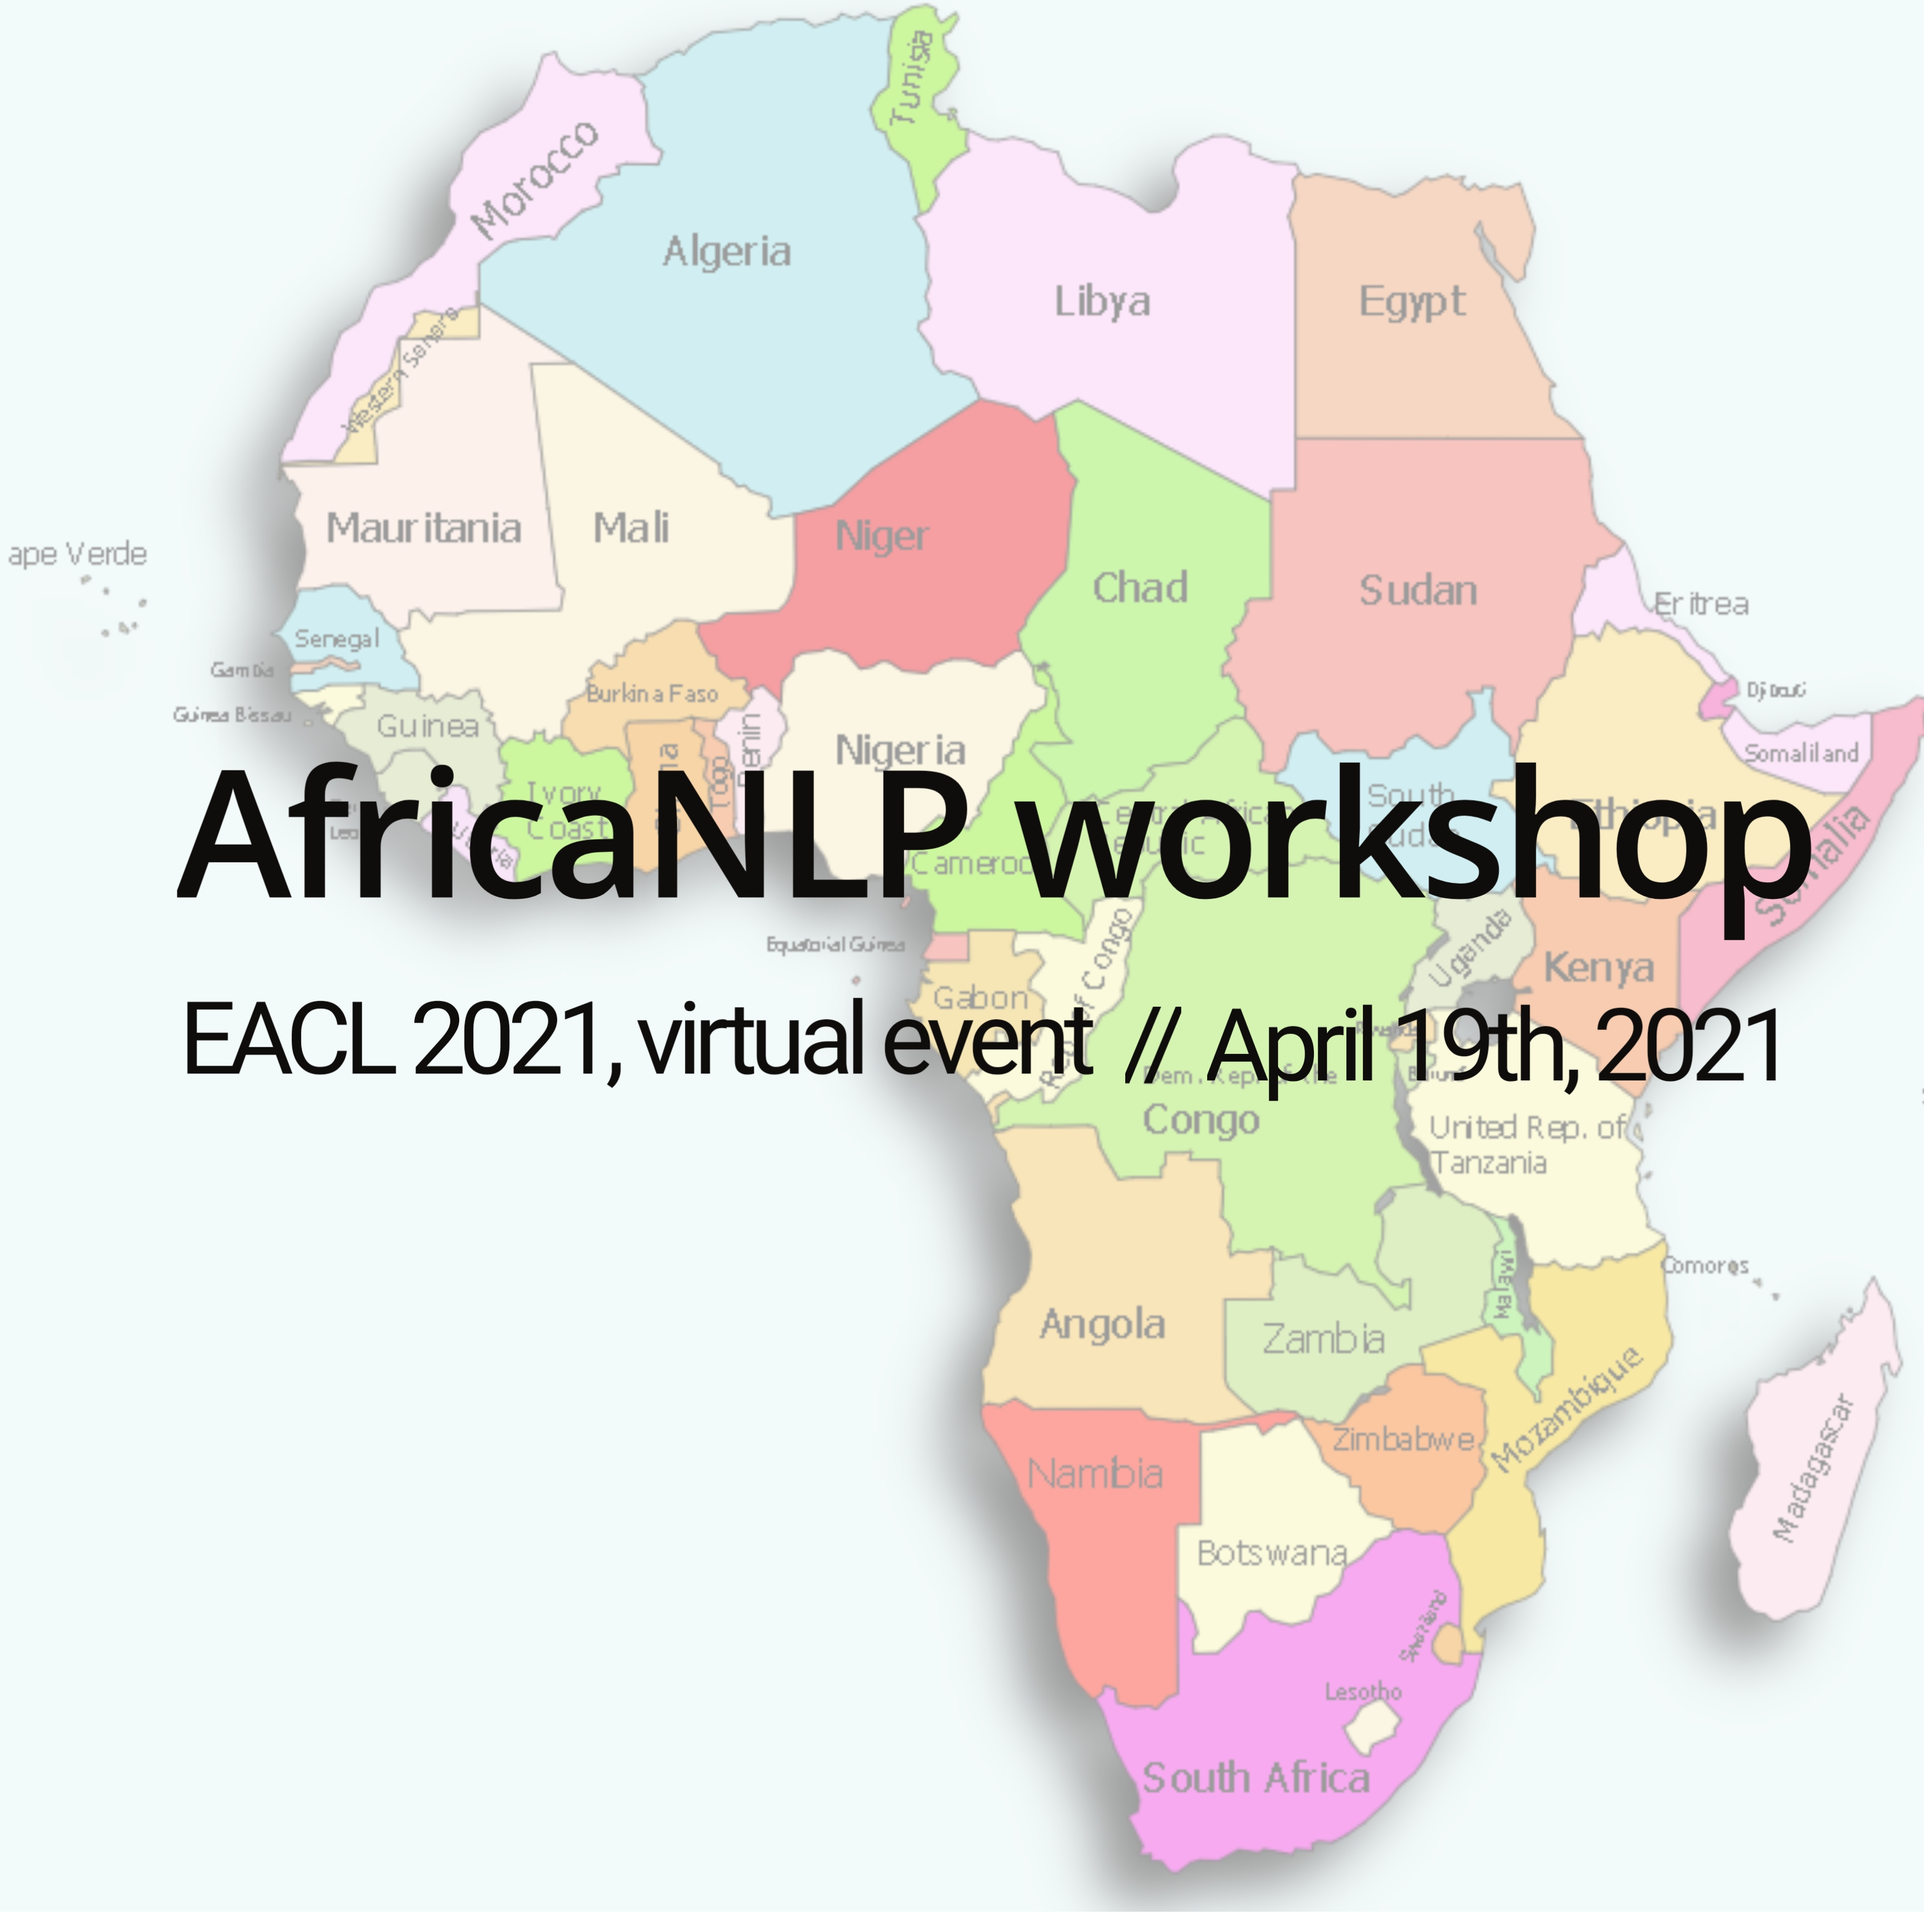
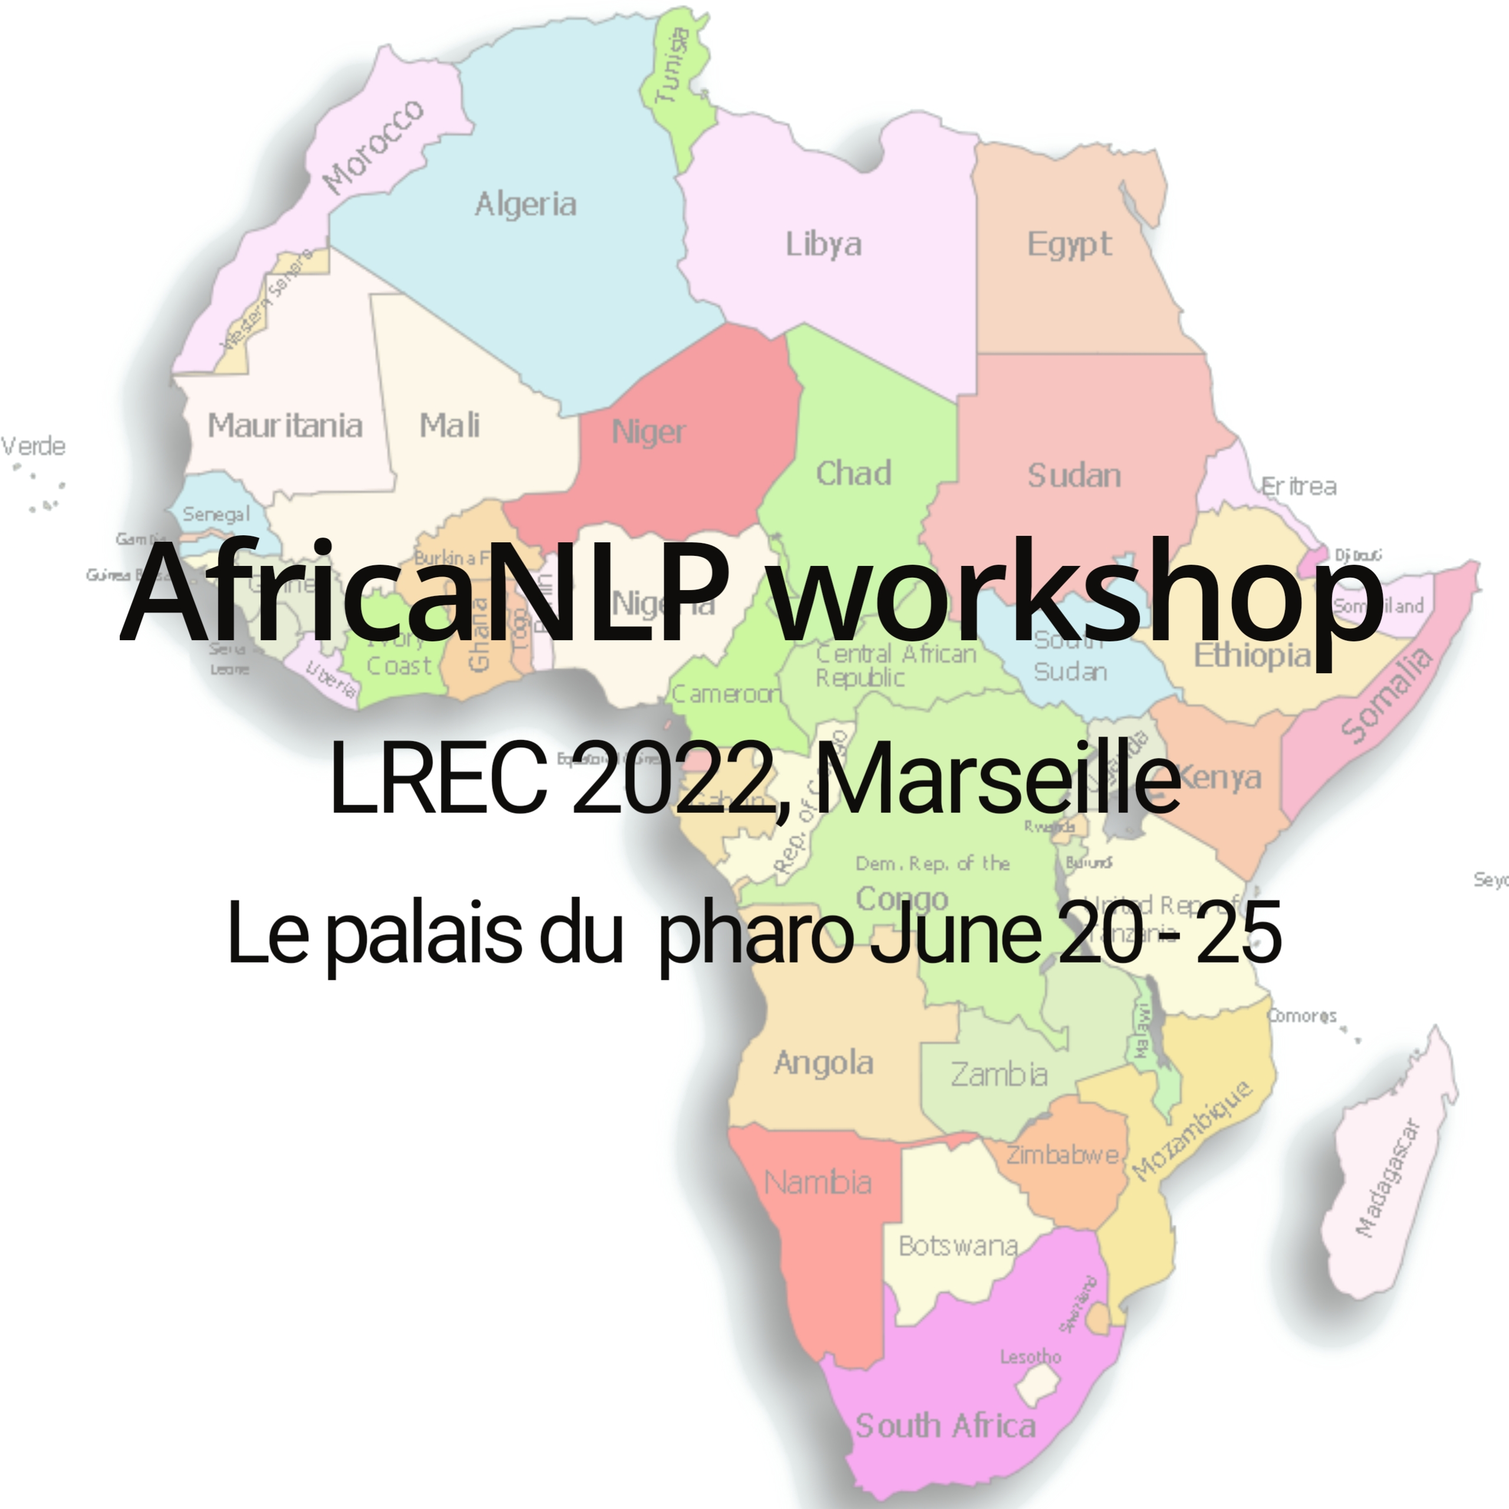
update

Changed region(s): [[0.0, 0.0, 1.0, 1.0], [0.3125, 0.125, 0.4062, 0.1562], [0.9688, 0.5625, 1.0, 0.5938]]

diff --git a/content/home/hero.md b/content/home/hero.md
@@ -53,6 +53,6 @@ hero_media = "2020-Conf-600x600.jpg"
 +++
 
 
-Welcome to virtual Africa NLP workshop January 27-28 at 2022 in San Francisco, CA.
+Welcome to virtual AfricaNLP workshop June 20-25, 2022 in Marseille, France.
 
 
